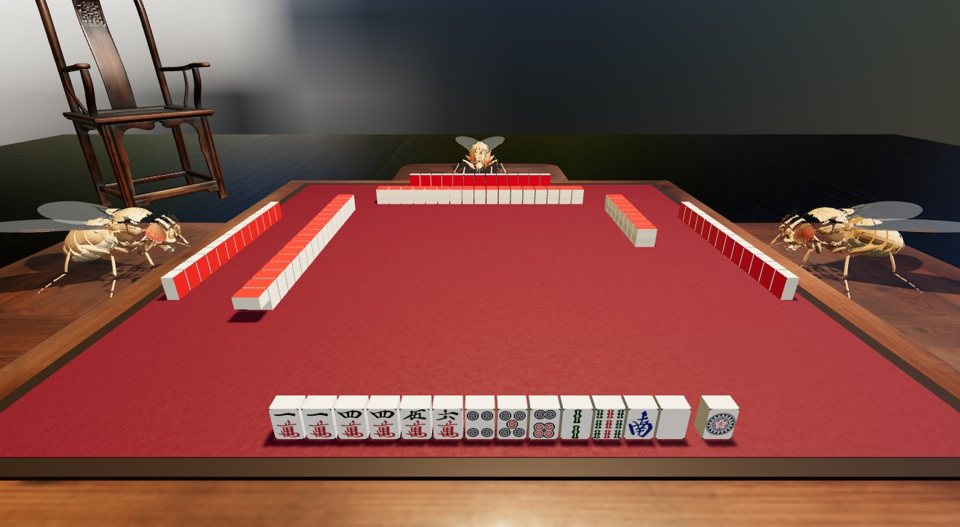
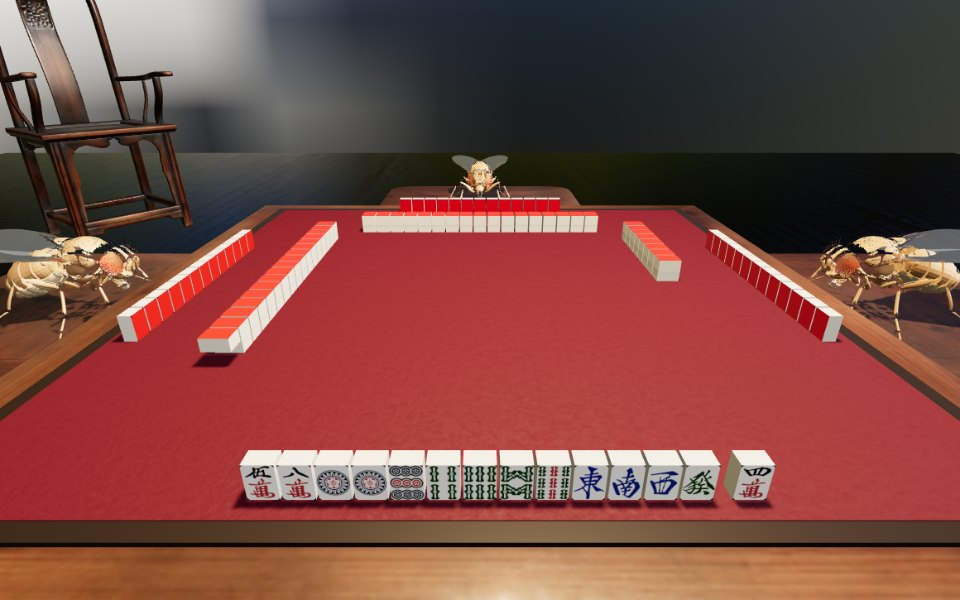
Room chrome: the lobby is the door, the HUD is a ledger
Every room's lobby now shows the room's own still filling the frame at
the table's height, breathing slowly, with the words rising bottom-left
and one amber button. Mahjong uses the shared lobby too. Over the table
the panels rise in sequence, whose turn it is reads in amber, the bowling
scoresheet is blocks of light with the live frame in amber, and the pool
power slider uses the site's own range style.

diff --git a/web/src/app/globals.css b/web/src/app/globals.css
@@ -222,6 +222,42 @@ a:hover .still > img { transform: scale(1.035); filter: saturate(1.05); }
 
 /* ---- Motion ------------------------------------------------------------ */
 
+/* ---- The door to a room, and the ledger over the table ------------------ */
+.lobby { position: relative; overflow: hidden; border-radius: var(--radius-inner); background: rgba(0, 0, 0, 0.42); }
+.lobby-still {
+  position: absolute; inset: 0; width: 100%; height: 100%; object-fit: cover; display: block;
+  filter: saturate(0.9) brightness(0.92);
+  animation: breathe 26s ease-in-out infinite alternate;
+  transform-origin: 55% 60%;
+}
+@keyframes breathe { from { transform: scale(1); } to { transform: scale(1.06); } }
+.lobby-veil {
+  position: absolute; inset: 0; pointer-events: none;
+  background:
+    linear-gradient(to top, rgba(7, 6, 5, 0.92) 0%, rgba(7, 6, 5, 0.55) 34%, rgba(7, 6, 5, 0.05) 62%, transparent 100%),
+    linear-gradient(to right, rgba(7, 6, 5, 0.55) 0%, transparent 55%);
+}
+.lobby-copy { position: absolute; left: 0; right: 0; bottom: 0; padding: 1.5rem 1.6rem 1.7rem; max-width: 46rem; }
+@media (min-width: 1024px) { .lobby-copy { padding: 2rem 2.2rem 2.2rem; } }
+.lobby-go { padding-left: 1.3rem; padding-right: 1.1rem; }
+.lobby-go > span { display: inline-block; transition: transform 0.25s cubic-bezier(0.2, 0.8, 0.2, 1); }
+.lobby-go:hover > span { transform: translateX(3px); }
+
+/* The panels over the table come in one after another when it appears. */
+.hud { animation: rise 0.6s cubic-bezier(0.2, 0.8, 0.2, 1) backwards; }
+.hud:nth-of-type(2) { animation-delay: 80ms; }
+.hud .t-cap { letter-spacing: 0.09em; color: var(--color-label-3); }
+/* Whose turn it is reads in amber; the dot already pulses beside the name. */
+.hud span:has(> .live-dot) .t-foot { color: var(--color-accent-2); }
+.hud span:has(> .live-dot) .num { color: var(--color-accent-2); }
+
+/* A scoresheet: cells are blocks of light, not ruled boxes. */
+.sheet { border-collapse: separate; border-spacing: 2px 2px; }
+.sheet td { background: rgba(255, 236, 214, 0.06); border-radius: 4px; padding: 2px 3px; }
+.sheet td:first-child { background: transparent; }
+.sheet td.on { background: rgba(240, 178, 90, 0.18); }
+@media (prefers-reduced-motion: reduce) { .lobby-still, .hud { animation: none; } }
+
 @keyframes rise { from { opacity: 0; transform: translateY(10px); } to { opacity: 1; transform: none; } }
 .rise { animation: rise 0.7s cubic-bezier(0.2, 0.8, 0.2, 1) backwards; }
 @keyframes pulse { 0%, 100% { opacity: 1; } 50% { opacity: 0.35; } }

diff --git a/web/src/experiments/shared/Lobby.tsx b/web/src/experiments/shared/Lobby.tsx
@@ -1,15 +1,29 @@
 "use client";
 
-/** The card you see before sitting down at any table: what loads, and a button. */
+import { usePathname } from "next/navigation";
+
+/**
+ * The door to a room. Its own still fills the frame, the same height the
+ * table will take, and the words sit on it at the bottom left: what this
+ * is, what loads, the choices, and one button. The still breathes slowly;
+ * the words rise in turn.
+ */
 export function Lobby({ title, body, action, onStart, children }: {
   title: string; body: string; action: string; onStart: () => void; children?: React.ReactNode;
 }) {
+  const path = usePathname();
+  const slug = path?.split("/").filter(Boolean).at(-1);
+  const still = slug ? `/previews/${slug}.jpg` : null;
   return (
-    <div className="glass p-10 text-center">
-      <h3 className="t-title">{title}</h3>
-      <p className="t-body mx-auto mt-3 max-w-md">{body}</p>
-      {children && <div className="mt-5 flex justify-center">{children}</div>}
-      <button onClick={onStart} className="btn-primary mt-6">{action}</button>
+    <div className={`lobby ${TABLE_FRAME}`}>
+      {still && <img src={still} alt="" className="lobby-still" />}
+      <div className="lobby-veil" aria-hidden />
+      <div className="lobby-copy">
+        <h3 className="rise text-[clamp(1.7rem,3.2vw,2.4rem)] font-semibold leading-[1.05] tracking-[-0.01em] text-label" style={{ animationDelay: "60ms" }}>{title}</h3>
+        <p className="rise t-body mt-3 max-w-[34rem] text-label-2" style={{ animationDelay: "140ms" }}>{body}</p>
+        {children && <div className="rise mt-5 flex flex-wrap items-center gap-2" style={{ animationDelay: "220ms" }}>{children}</div>}
+        <button onClick={onStart} className="btn-primary lobby-go rise mt-6" style={{ animationDelay: "300ms" }}>{action}{" "}<span aria-hidden>→</span></button>
+      </div>
     </div>
   );
 }

diff --git a/web/src/experiments/bowling/Table.tsx b/web/src/experiments/bowling/Table.tsx
@@ -27,7 +27,7 @@ import { getBestLines } from "./bot";
 const ME = 0, FLY = 2;
 const SEATS = TABLE_SEATS.filter((s) => s.seat === FLY);
 const BED_H = 0.03;
-const WAIT: [number, number] = [-0.3, FOUL_Z - 0.02];         // where the fly waits, beside the lane just ahead of you
+const WAIT: [number, number] = [-0.42, FOUL_Z - 0.55];        // where the fly waits: beside the lane, ahead and off your line
 type Hook = "left" | "straight" | "right";
 const HOOK: Record<Hook, number> = { left: -0.045, straight: 0, right: 0.045 };
 
@@ -339,14 +339,14 @@ export function BowlingTable() {
           <div className="hud pointer-events-none max-w-[60%]">
             <span className="t-foot">{lastText}</span>
             {wide && (
-              <table className="num mt-1 text-[11px] leading-tight">
+              <table className="sheet num mt-1.5 text-[11px] leading-tight">
                 <tbody>
                   {([0, 1] as const).map((p) => (
                     <tr key={p}>
                       <td className="pr-2 text-label-2">{names[p === 0 ? ME : FLY]}</td>
                       {Array.from({ length: 10 }, (_, f) => {
                         const fr = game.frames[p][f] ?? [];
-                        return <td key={f} className={`w-8 text-center ${f === game.frame && p === game.player && game.status === "active" ? "text-accent" : ""}`}>{[0, 1, 2].map((i) => mark(fr, i, f === 9)).join(" ")}<br /><span className="text-label-2">{scores[p][f] ?? ""}</span></td>;
+                        return <td key={f} className={`w-8 text-center ${f === game.frame && p === game.player && game.status === "active" ? "on" : ""}`}>{[0, 1, 2].map((i) => mark(fr, i, f === 9)).join(" ")}<br /><span className="text-label-2">{scores[p][f] ?? ""}</span></td>;
                       })}
                     </tr>
                   ))}

diff --git a/web/src/experiments/mahjong-lobby/Table.tsx b/web/src/experiments/mahjong-lobby/Table.tsx
@@ -13,6 +13,7 @@ import {
 } from "./engine";
 import { makeBot, type Bot } from "./bots";
 import { FlyBrains, type BrainsApi } from "../shared/FlyBrains";
+import { Lobby } from "../shared/Lobby";
 import { tileName, useT, type Key, type T } from "@/lib/i18n";
 import { useMedia } from "@/lib/useMedia";
 import { useBodyKind } from "@/lib/sim/body";
@@ -149,7 +150,7 @@ export function Table() {
   const win = () => { const g = gameRef.current; if (g && canSelfWin(g)) { selfWin(g); bump(ME); } };
   const kong = (k: Kind) => { const g = gameRef.current; if (g) { declareKong(g, k); bump(ME); } };
 
-  if (!g) return <Lobby onStart={() => start()} t={t} />;
+  if (!g) return <Lobby title={t("mj.lobby.title")} body={t("mj.lobby.body")} action={t("mj.lobby.sit")} onStart={() => start()} />;
 
   const ph = g.phase;
   const myTurn = ph.kind === "discard" && ph.seat === ME;
@@ -236,12 +237,3 @@ export function Table() {
   );
 }
 
-function Lobby({ onStart, t }: { onStart: () => void; t: T }) {
-  return (
-    <div className="glass p-10 text-center">
-      <h3 className="t-title">{t("mj.lobby.title")}</h3>
-      <p className="t-body mx-auto mt-3 max-w-md">{t("mj.lobby.body")}</p>
-      <button onClick={onStart} className="btn-primary mt-6">{t("mj.lobby.sit")}</button>
-    </div>
-  );
-}

diff --git a/web/src/experiments/pool/Table.tsx b/web/src/experiments/pool/Table.tsx
@@ -351,7 +351,7 @@ export function PoolTable() {
             ) : (
               <>
                 <label className="hud"><span className="t-cap">{lt("power")}</span>
-                  <input type="range" min={0} max={100} value={Math.round(power * 100)} onChange={(e) => setPower(Number(e.target.value) / 100)} className="w-28 accent-[var(--color-accent)]" />
+                  <input type="range" min={0} max={100} value={Math.round(power * 100)} onChange={(e) => setPower(Number(e.target.value) / 100)} className="rng rng-on w-28" />
                 </label>
                 <button className="btn-primary text-xs" disabled={!canShoot} onClick={shoot}>{lt("shoot")}</button>
               </>
